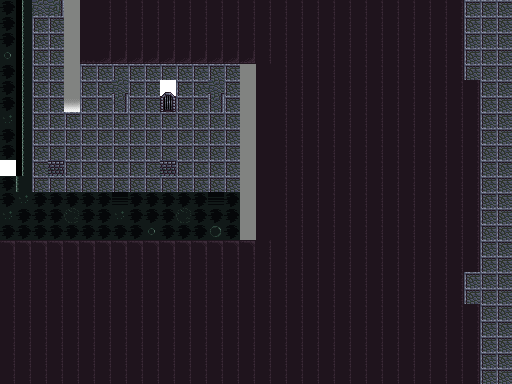
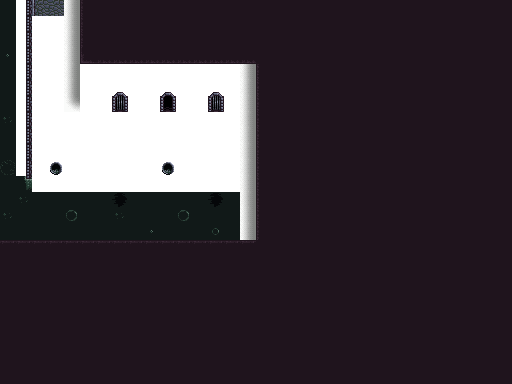
TileMap Creater functional
the tileMaps are now loaded into memory, and the level itself is printed
to a png file.  this will need to be changfed to allow for use in the
game, but for now the program reads the xml files in properly.

Changed region(s): [[0.0, 0.0, 0.5, 0.625], [0.9062, 0.0, 1.0, 1.0], [0.4062, 0.5938, 0.4375, 0.625]]

diff --git a/src/TextureLoader.java b/src/TextureLoader.java
@@ -7,8 +7,7 @@ import java.util.List;
 import java.util.HashMap;
 import java.util.Map;
 import javax.imageio.ImageIO;
-import java.io.File;
-import java.io.IOException;
+
 import java.awt.Graphics2D;
 import java.awt.Toolkit;
 import java.awt.image.BufferedImage;
@@ -71,8 +70,11 @@ public class TextureLoader {//Load will need to return a hashmap of the filename
 					BufferedImage[] tileset = new BufferedImage[tileSetLoad.getTileAmountWidth()*Math.floorDiv(imageHeight,tileHeight)];
 					BufferedImage tileBase = ImageIO.read(new File(ImagePath));//This contains the tileSet image and is accessed through the key which is it's name.
 					for(int a = 0; a< Math.floorDiv(imageHeight,tileHeight); a++){
-						for(int q = 0; q<tileSetLoad.getTileAmountWidth(); q++){
-							tileset[q+a*tileSetLoad.getTileAmountWidth()] = tileBase.getSubimage(q*tileWidth, a*tileHeight, tileWidth, tileHeight);
+						for(int q = 0; q<tileSetLoad.getTileAmountWidth()-1; q++){
+							//TODO this adds all of the tiles into the array, but they are all accessed in a way that 
+							//leaves the first index empty to serve as the transparent tile, and then the last tile may or may not actually get put into the array, 
+							//This needs to be tested to make sure we don't run into errors or limitations while building the game
+							tileset[q+a*tileSetLoad.getTileAmountWidth()+1] = tileBase.getSubimage(q*tileWidth, a*tileHeight, tileWidth, tileHeight);
 							//tileset[q+a*tileSetLoad.getTileAmountWidth()] = tileBase.getSubimage(1,1,1,1);
 							
 						}
@@ -118,6 +120,10 @@ public class TextureLoader {//Load will need to return a hashmap of the filename
 			//This method constructs the entire image.  This can be done better by putting a hashmap of the map name as the key to a list of layer
 			//tilecoordinate arrays which are then constructed and printed
 			NodeList lList = document.getElementsByTagName("layer");
+			BufferedImage screenBitmap = new BufferedImage(mapWidth*16, mapHeight*16, BufferedImage.TYPE_INT_ARGB);
+			BufferedImage screenBitmapTopLayer = new BufferedImage(mapWidth*16, mapHeight*16, BufferedImage.TYPE_INT_ARGB);
+			Graphics2D[] gList = new Graphics2D[lList.getLength()];
+			//for(int i = 0; i<1; i++){
 			for(int i = 0; i<lList.getLength(); i++){
 				int[] tileArray = new int[mapWidth*mapHeight];//TODO might need to change from a constant to a variable
 				Node layer = lList.item(i);
@@ -138,6 +144,7 @@ public class TextureLoader {//Load will need to return a hashmap of the filename
 					int gid = Integer.parseInt(eTile.getAttribute("gid"));
 					//System.out.println(gid);
 					if(gid>0){
+						System.out.println(gid);
 						tileArray[tileLength] = gid;//This constructs the tileArray and assigns each part the proper dig id, unless it is zero, since zero is not stored.
 					}
 					tileLength++;
@@ -165,9 +172,19 @@ public class TextureLoader {//Load will need to return a hashmap of the filename
 			//BufferedImage screenBitmap = new BufferedImage(mapWidth*currentTileSet.getTileWidth(), mapHeight*currentTileSet.getTileHeight(), BufferedImage.TYPE_BYTE_BINARY);
 			//BufferedImage screenBitmapTopLayer = new BufferedImage(mapWidth*currentTileSet.getTileWidth(), mapHeight*currentTileSet.getTileHeight(), BufferedImage.TYPE_BYTE_BINARY);
 			//BufferedImage screenBitTiles = new BufferedImage[]
-			BufferedImage screenBitmap = new BufferedImage(mapWidth*16, mapHeight*16, BufferedImage.TYPE_INT_ARGB);
-			BufferedImage screenBitmapTopLayer = new BufferedImage(mapWidth*16, mapHeight*16, BufferedImage.TYPE_INT_ARGB);
-			Graphics2D g = screenBitmap.createGraphics();
+			
+			
+			File file = new File("resources\\tilemaps\\series1\\sewer_1.png");
+			FileInputStream fis = new FileInputStream(file);
+		//BufferedImage[] tileset = new BufferedImage[352];
+			BufferedImage tileset = ImageIO.read(fis);
+			
+			
+			
+			//BufferedImage screenBitmap = new BufferedImage(mapWidth*16, mapHeight*16, tileset.getType());
+			//BufferedImage screenBitmapTopLayer = new BufferedImage(mapWidth*16, mapHeight*16, tileset.getType());
+			//screenBitmap.
+			//Graphics2D g = screenBitmap.createGraphics();
 			for(int spriteForY = 0; spriteForY < mapHeight; spriteForY++){
 				for(int spriteForX = 0; spriteForX < mapWidth; spriteForX++){
 					int tileGid = (int) tileCoordinates[spriteForY][spriteForX];
@@ -183,7 +200,7 @@ public class TextureLoader {//Load will need to return a hashmap of the filename
 					
 					
 					//img = new BufferedImage()
-					BufferedImage tile = new BufferedImage(currentTileSet.getTileWidth(), currentTileSet.getTileWidth(), BufferedImage.TYPE_INT_ARGB);
+					//BufferedImage tile = new BufferedImage(currentTileSet.getTileWidth(), currentTileSet.getTileWidth(), tileset.getType());
 					
 					// basic math to find out where the tile is coming from on the source image
 					int destY = spriteForY*currentTileSet.getTileWidth();//might need to be replace with tileHeight, since I suspect this is a bug here.  //TODO
@@ -196,13 +213,24 @@ public class TextureLoader {//Load will need to return a hashmap of the filename
 					if(layerMap == 0){
 						//The issue appears to be coming from tileGid.  It appears that the data array in the hashmap may be wrong
 						//g.drawImage(tiles.get(currentTileSet.getName())[tileGid], destX, destY, currentTileSet.getTileWidth(), currentTileSet.getTileWidth(), null);
-						System.out.println(tileGid);
-						g.drawImage(tiles.get(currentTileSet.getName())[tileGid], destX, destY, currentTileSet.getTileWidth(), currentTileSet.getTileWidth(), null);
+						//System.out.println(tileGid);
+						//g.drawImage(tiles.get(currentTileSet.getName())[tileGid], destX, destY, currentTileSet.getTileWidth(), currentTileSet.getTileWidth(), null);
+						//gList[i] = 
+						Graphics2D g = screenBitmap.createGraphics();
+						g.drawImage(tiles.get(currentTileSet.getName())[tileCoordinates[spriteForY][spriteForX]], destX, destY, currentTileSet.getTileWidth(), currentTileSet.getTileWidth(), null);
+						
+						
 						//screenBitmap.setData(new Raster(null, null, null, null, null));
 						
 						//screenBitmap.createGraphics().drawImage(tiles.get(currentTileSet.getName())., x, y, observer)
 						//screenBitmap.
 						//screenBitmap.
+						
+					}
+					else{
+						
+						Graphics2D g = screenBitmapTopLayer.createGraphics();
+						g.drawImage(tiles.get(currentTileSet.getName())[tileCoordinates[spriteForY][spriteForX]], destX, destY, currentTileSet.getTileWidth(), currentTileSet.getTileWidth(), null);
 						
 					}
 					
@@ -216,15 +244,28 @@ public class TextureLoader {//Load will need to return a hashmap of the filename
 				
 				
 			}
-			g.finalize();
+			//g.finalize();
 			
 				
-			File outputfile = new File("image.png");
-			ImageIO.write(screenBitmap, "png", outputfile);
 				
 				
 				
 			}
+			//This currently combines 2 layers into one BufferedImage
+			BufferedImage combined = new BufferedImage(mapWidth*16, mapHeight*16, BufferedImage.TYPE_INT_ARGB);
+			Graphics2D gc = combined.createGraphics();
+			gc.drawImage(screenBitmapTopLayer, 0, 0, null);
+			gc.drawImage(screenBitmap, 0, 0, null);
+			gc.finalize();
+		File outputfile = new File("image2.png");
+		ImageIO.write(combined, "png", outputfile);
+			
+			
+			
+			
+			
+			
+			
 			/*
 			 * List<BufferedImage> tileImages = new ArrayList<BufferedImage>();
 			for(int i = 0; i<totalTileSets; i++){
